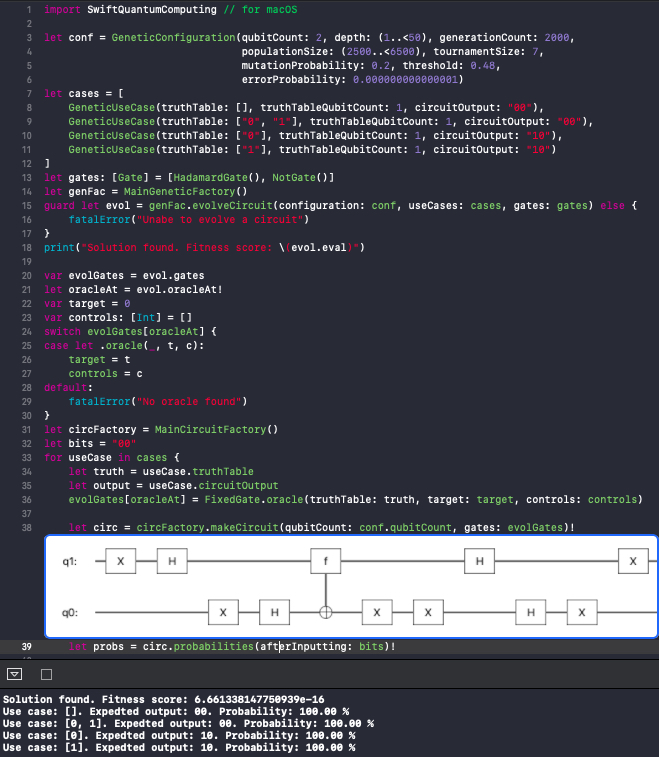
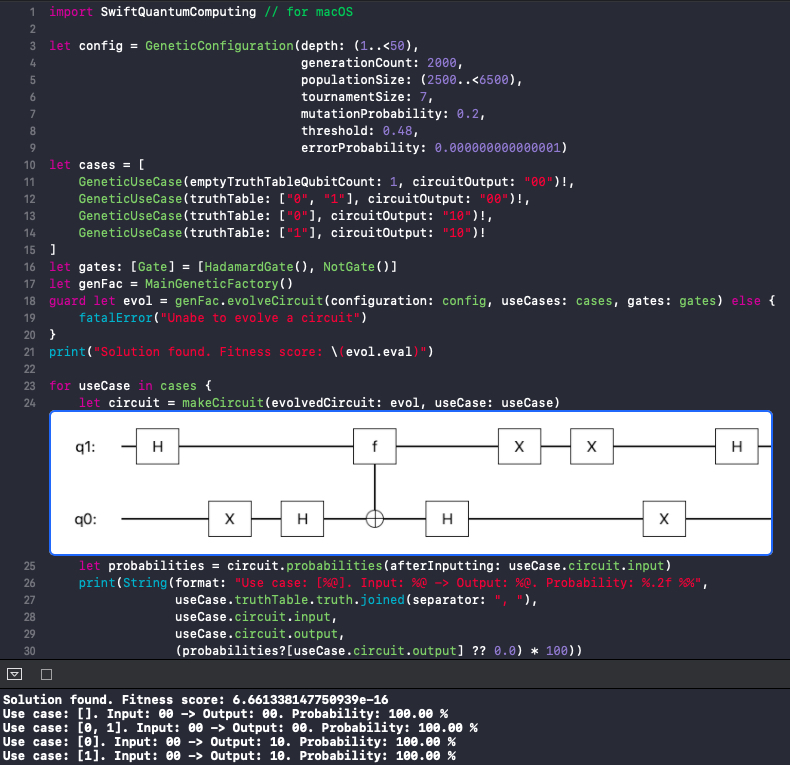
Update Genetic.playground & screenshots

diff --git a/Genetic.playground/Contents.swift b/Genetic.playground/Contents.swift
@@ -1,9 +1,12 @@
 import SwiftQuantumComputing // for macOS
 
-let conf = GeneticConfiguration(depth: (1..<50), generationCount: 2000,
-                                populationSize: (2500..<6500), tournamentSize: 7,
-                                mutationProbability: 0.2, threshold: 0.48,
-                                errorProbability: 0.000000000000001)
+let config = GeneticConfiguration(depth: (1..<50),
+                                  generationCount: 2000,
+                                  populationSize: (2500..<6500),
+                                  tournamentSize: 7,
+                                  mutationProbability: 0.2,
+                                  threshold: 0.48,
+                                  errorProbability: 0.000000000000001)
 let cases = [
     GeneticUseCase(emptyTruthTableQubitCount: 1, circuitOutput: "00")!,
     GeneticUseCase(truthTable: ["0", "1"], circuitOutput: "00")!,
@@ -12,35 +15,17 @@ let cases = [
 ]
 let gates: [Gate] = [HadamardGate(), NotGate()]
 let genFac = MainGeneticFactory()
-guard let evol = genFac.evolveCircuit(configuration: conf, useCases: cases, gates: gates) else {
+guard let evol = genFac.evolveCircuit(configuration: config, useCases: cases, gates: gates) else {
     fatalError("Unabe to evolve a circuit")
 }
 print("Solution found. Fitness score: \(evol.eval)")
 
-var evolGates = evol.gates
-let oracleAt = evol.oracleAt!
-var target = 0
-var controls: [Int] = []
-switch evolGates[oracleAt] {
-case let .oracle(_, t, c):
-    target = t
-    controls = c
-default:
-    fatalError("No oracle found")
-}
-let circFactory = MainCircuitFactory()
-let bits = "00"
 for useCase in cases {
-    let truth = useCase.truthTable.truth
-    evolGates[oracleAt] = FixedGate.oracle(truthTable: truth, target: target, controls: controls)
-
-    let qubitCount = useCase.circuit.qubitCount
-    let circ = circFactory.makeCircuit(qubitCount: qubitCount, gates: evolGates)!
-    let probs = circ.probabilities(afterInputting: bits)!
-
-    let output = useCase.circuit.output
-    print(String(format: "Use case: [%@]. Expedted output: %@. Probability: %.2f %%",
-                 truth.joined(separator: ", "),
-                 output,
-                 (probs[output] ?? 0.0) * 100))
+    let circuit = makeCircuit(evolvedCircuit: evol, useCase: useCase)
+    let probabilities = circuit.probabilities(afterInputting: useCase.circuit.input)
+    print(String(format: "Use case: [%@]. Input: %@ -> Output: %@. Probability: %.2f %%",
+                 useCase.truthTable.truth.joined(separator: ", "),
+                 useCase.circuit.input,
+                 useCase.circuit.output,
+                 (probabilities?[useCase.circuit.output] ?? 0.0) * 100))
 }

diff --git a/Genetic.playground/Sources/Helpers.swift b/Genetic.playground/Sources/Helpers.swift
@@ -1,0 +1,33 @@
+// Licensed under the Apache License, Version 2.0 (the "License");
+// you may not use this file except in compliance with the License.
+// You may obtain a copy of the License at
+//
+//     http://www.apache.org/licenses/LICENSE-2.0
+//
+// Unless required by applicable law or agreed to in writing, software
+// distributed under the License is distributed on an "AS IS" BASIS,
+// WITHOUT WARRANTIES OR CONDITIONS OF ANY KIND, either express or implied.
+// See the License for the specific language governing permissions and
+// limitations under the License.
+//
+
+import SwiftQuantumComputing
+
+public func makeCircuit(evolvedCircuit: GeneticFactory.EvolvedCircuit,
+                        useCase: GeneticUseCase) -> Circuit {
+    var evolvedGates = evolvedCircuit.gates
+
+    if let oracleAt = evolvedCircuit.oracleAt {
+        switch evolvedGates[oracleAt] {
+        case let .oracle(_, target, controls):
+            evolvedGates[oracleAt] = FixedGate.oracle(truthTable: useCase.truthTable.truth,
+                                                      target: target,
+                                                      controls: controls)
+        default:
+            fatalError("No oracle found")
+        }
+    }
+
+    return MainCircuitFactory().makeCircuit(qubitCount: useCase.circuit.qubitCount,
+                                            gates: evolvedGates)!
+}
